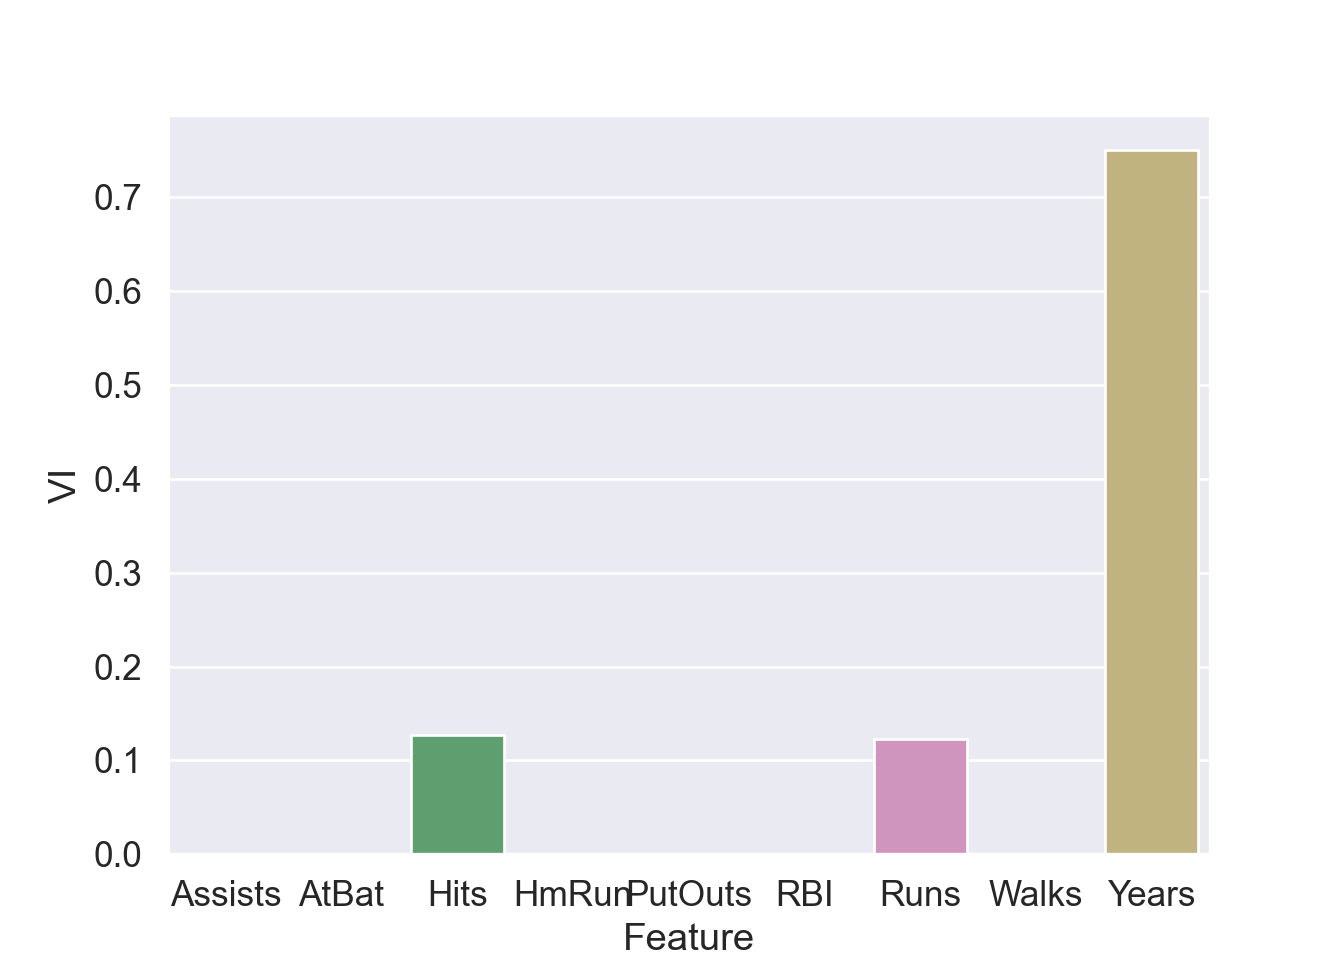
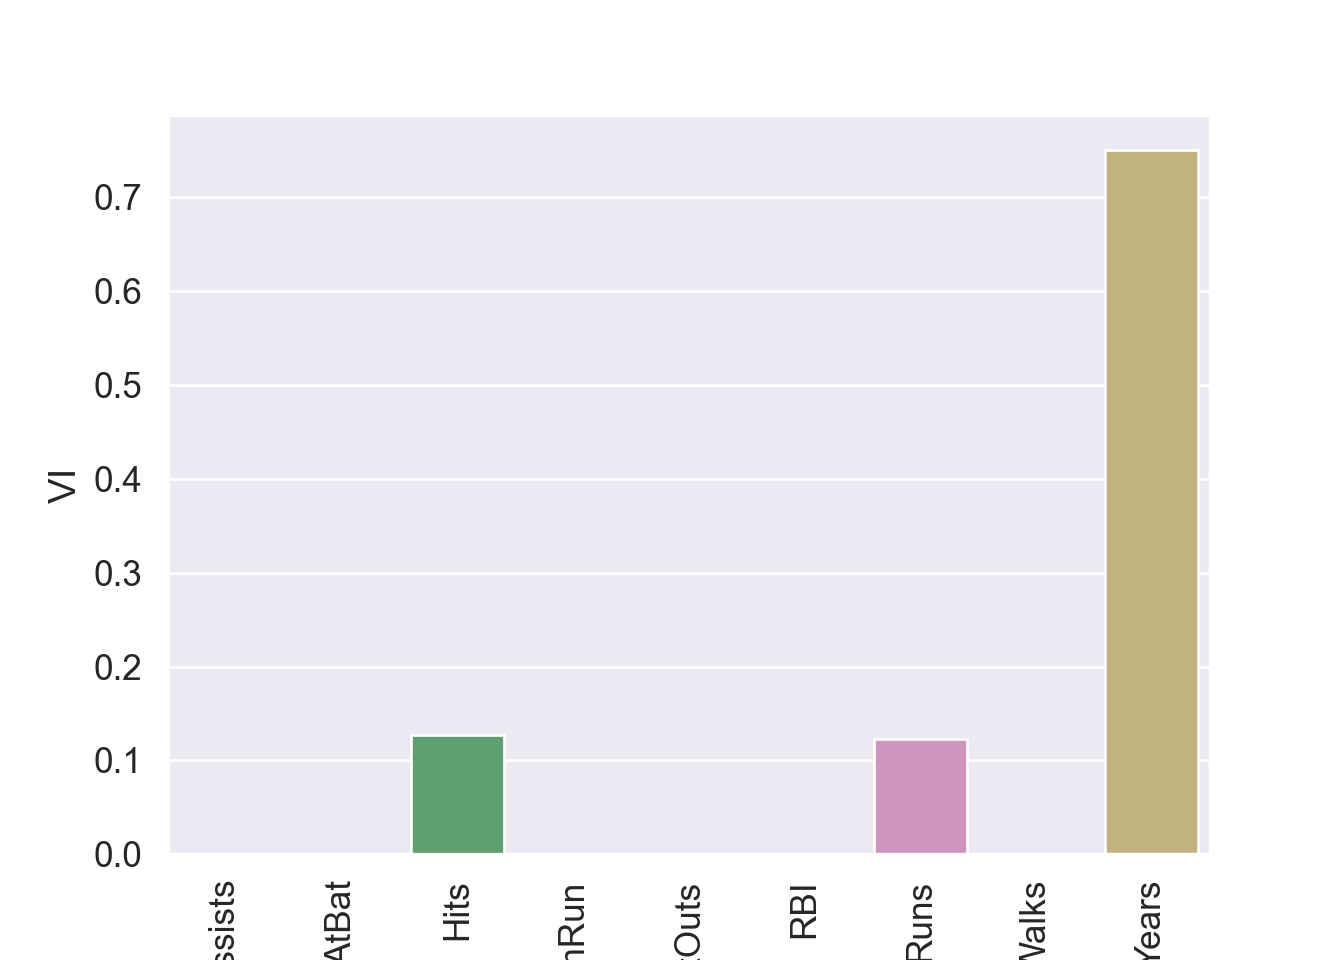
rotate vi plot x-axis labels

Changed region(s): [[0.3125, 0.9062, 0.625, 1.0], [0.6562, 0.9062, 0.875, 1.0], [0.125, 0.9062, 0.2812, 1.0]]

diff --git a/slides/08-tree/workflow_regtree.html b/slides/08-tree/workflow_regtree.html
@@ -616,7 +616,8 @@ max    2460.000000  </code></pre>
 <span id="cb26-12"><a href="#cb26-12" aria-hidden="true" tabindex="-1"></a>    xlabel <span class="op">=</span> <span class="st">"Feature"</span>,</span>
 <span id="cb26-13"><a href="#cb26-13" aria-hidden="true" tabindex="-1"></a>    ylabel <span class="op">=</span> <span class="st">"VI"</span></span>
 <span id="cb26-14"><a href="#cb26-14" aria-hidden="true" tabindex="-1"></a>)<span class="op">;</span></span>
-<span id="cb26-15"><a href="#cb26-15" aria-hidden="true" tabindex="-1"></a>plt.show()</span></code><button title="Copy to Clipboard" class="code-copy-button"><i class="bi"></i></button></pre></div>
+<span id="cb26-15"><a href="#cb26-15" aria-hidden="true" tabindex="-1"></a>plt.xticks(rotation <span class="op">=</span> <span class="dv">90</span>)<span class="op">;</span></span>
+<span id="cb26-16"><a href="#cb26-16" aria-hidden="true" tabindex="-1"></a>plt.show()</span></code><button title="Copy to Clipboard" class="code-copy-button"><i class="bi"></i></button></pre></div>
 <div class="cell-output-display">
 <div class="quarto-figure quarto-figure-center">
 <figure class="figure">
